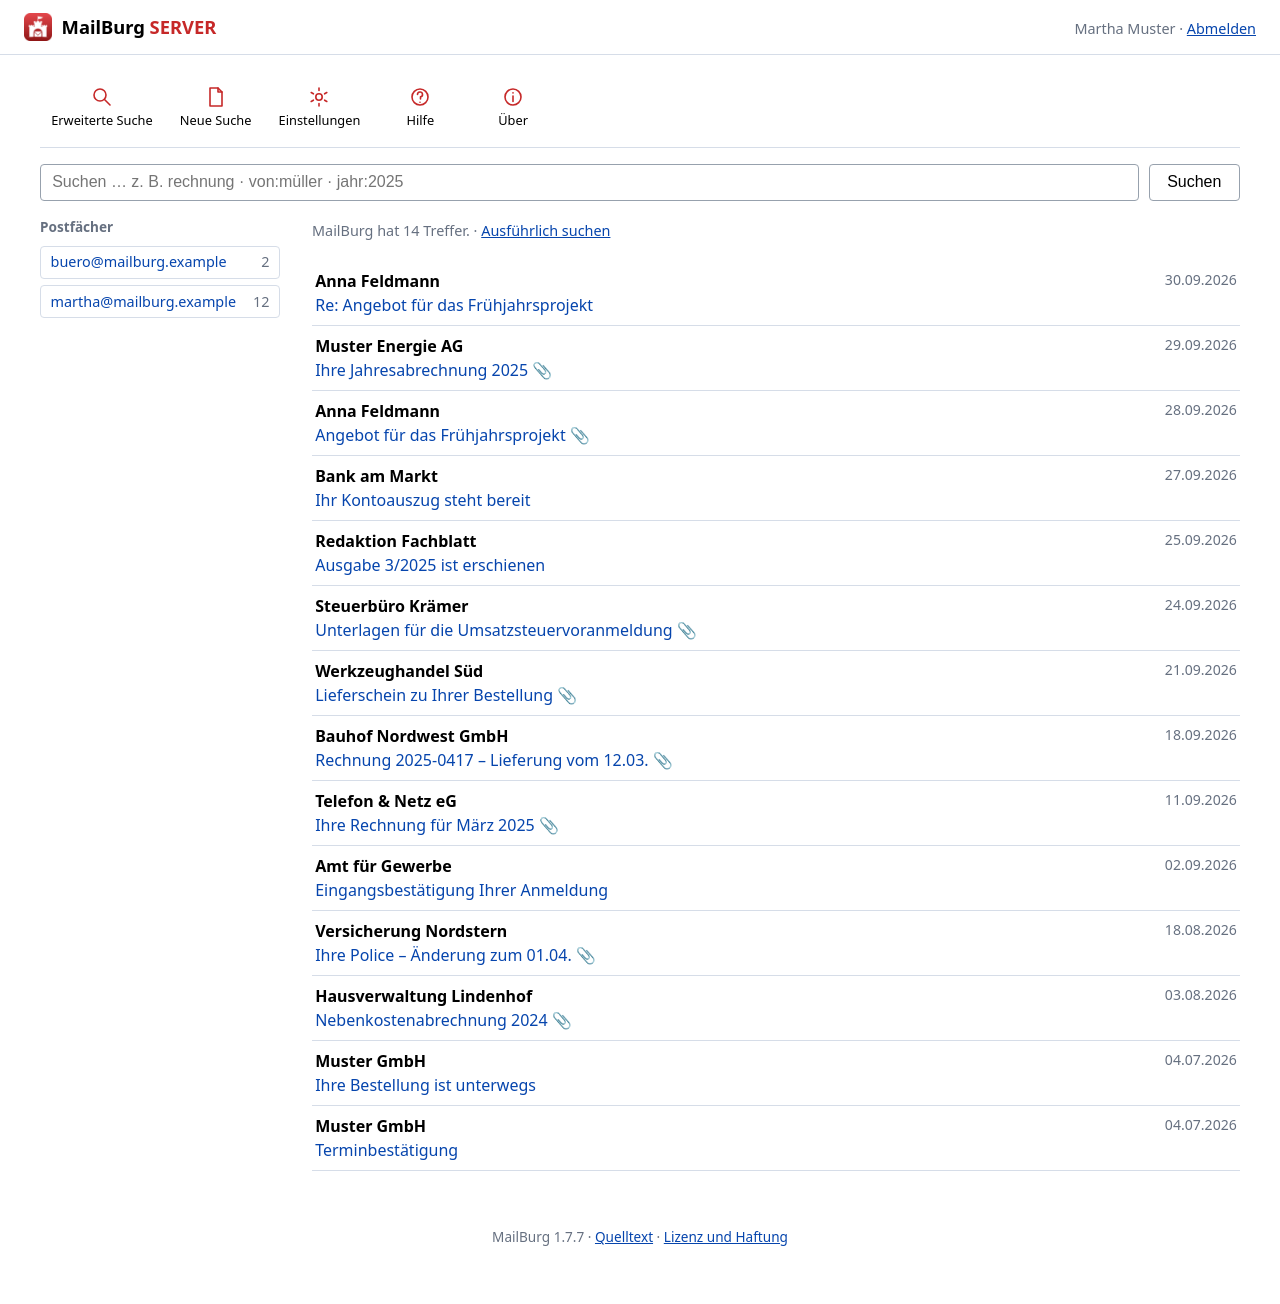
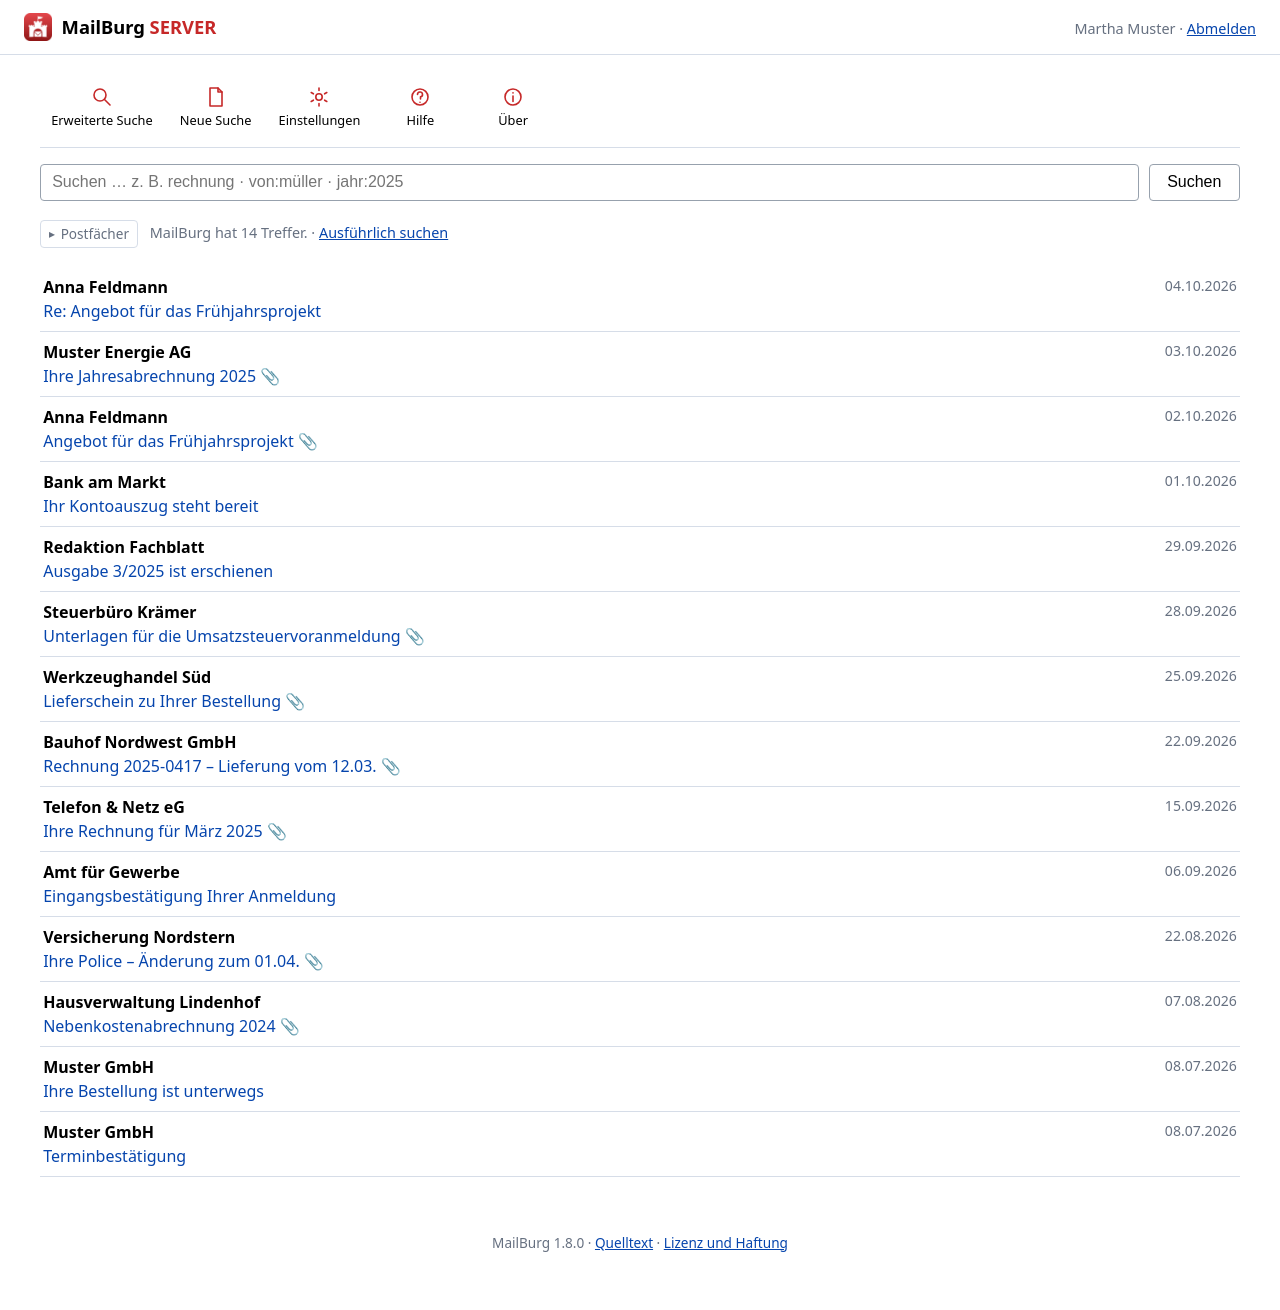
Die Browserbilder zeigten die alte Postfachspalte
Alle sieben neu erzeugt, dazu ein achtes: die aufgeschobene Spalte.
Zugeschoben ist seit der 1.8.0 die Vorgabe - auf dem Bild sieht man sie
dann gar nicht mehr, und niemand kaeme auf die Idee, dass es sie gibt.

Und damit stimmten die Bildbeschreibungen nicht mehr: Sie sprachen von
"links die Postfachspalte", die zu ist. Fuer Blinde ist eine
Beschreibung, die etwas anderes sagt als das Bild, schlimmer als keine.
In beiden Sprachen nachgezogen.

QtWebEngine war dafuer nachzuruesten (PySide6-Addons) - das Werkzeug
gab es laengst, ihm fehlte nur der Browser.

diff --git a/werkzeuge/screenshots_server.py b/werkzeuge/screenshots_server.py
@@ -338,6 +338,14 @@ def main() -> int:
             knipser.oeffnen("/?q=rechnung")
             knipser.ablegen("server-trefferliste")
 
+            # **Einmal mit offener Postfachspalte.** Zugeschoben ist
+            # seit der 1.8.0 die Vorgabe – damit sieht man auf dem Bild
+            # oben die Spalte gar nicht mehr, und niemand käme auf die
+            # Idee, dass es sie gibt.
+            knipser.oeffnen("/postfaecher?wahl=auf&weiter=%2F%3Fq%3Drechnung")
+            knipser.ablegen("server-postfaecher")
+            knipser.oeffnen("/postfaecher?wahl=zu&weiter=%2F%3Fq%3Drechnung")
+
             # Die erste Nachricht öffnen – welche das ist, steht nicht
             # fest, deshalb über den ersten Treffer gehen.
             ziel = knipser.ausfuehren(

diff --git a/docs/server-windows.md b/docs/server-windows.md
@@ -386,11 +386,18 @@ erfährt nicht einmal, wie das Archiv heißt.
 
 ![Die Anmeldeseite: Kopfzeile mit rotem Wappen und dem Schriftzug MailBurg SERVER, rechts der Umschalter System · Hell · Dunkel. In der Mitte zwei Felder für Anmeldename und Passwort mit einer Schaltfläche Anmelden.](bilder/server-anmelden.png)
 
-Nach der Anmeldung die Suche. Links stehen nur die Postfächer, die
-dieser Zugang sehen darf; die Zahl dahinter ist die der Nachrichten
-darin.
+Nach der Anmeldung die Suche. Die Treffer bekommen die volle Breite –
+gesucht wird ohnehin über alle Postfächer, die dieser Zugang sehen
+darf.
 
-![Die Trefferliste nach einer Suche nach »rechnung«: oben die Werkzeugleiste, darunter das Suchfeld mit der Trefferzahl, links die Postfachspalte und rechts drei Treffer, je zwei Zeilen mit Absender, Betreff, Datum und einer Büroklammer für den Anhang.](bilder/server-trefferliste.png)
+![Die Trefferliste nach einer Suche nach »rechnung«: oben die Werkzeugleiste, darunter das Suchfeld, dann der Knopf »Postfächer« neben der Trefferzahl und darunter drei Treffer über die volle Breite, je zwei Zeilen mit Absender, Betreff, Datum und einer Büroklammer für den Anhang.](bilder/server-trefferliste.png)
+
+Wer wissen will, **worin** er eigentlich sucht, drückt auf
+*Postfächer*. Die Spalte zeigt jedes Postfach mit seiner Mailzahl, und
+ein Klick darauf grenzt die Suche darauf ein. Sie bleibt offen, bis man
+sie wieder zuschiebt.
+
+![Dieselbe Trefferliste mit aufgeschobener Postfachspalte: links zwei Kästen mit je einer Mailadresse und der Zahl der Nachrichten darin, oben der Knopf »Postfächer« zum Zuschieben, rechts daneben unverändert die drei Treffer.](bilder/server-postfaecher.png)
 
 Unter **Einstellungen** stellt jeder für sich ein, wie es aussehen soll.
 Die Einstellung hängt am Browser, nicht am Zugang – wer sich von einem

diff --git a/README.md b/README.md
@@ -393,7 +393,7 @@ liegt das Archiv auf einem Rechner, der läuft, und alle anderen erreichen es
 über den Browser: anmelden, suchen, lesen, Anhänge herunterladen.
 
 <p align="center">
-  <img src="docs/bilder/server-uebersicht.png" alt="Die Weboberfläche nach der Anmeldung: oben eine Werkzeugleiste mit Erweiterte Suche, Neue Suche, Einstellungen, Hilfe und Über. Darunter das Suchfeld, links eine Spalte mit den beiden Postfächern, die dieser Zugang sehen darf, und rechts die Trefferliste – je Nachricht zwei Zeilen mit Absender, Betreff, Datum und einer Büroklammer bei Anhängen." width="900">
+  <img src="docs/bilder/server-uebersicht.png" alt="Die Weboberfläche nach der Anmeldung: oben eine Werkzeugleiste mit Erweiterte Suche, Neue Suche, Einstellungen, Hilfe und Über. Darunter das Suchfeld, dann eine Zeile mit dem Knopf »Postfächer« und der Trefferzahl, und darunter die Treffer über die volle Breite – je Nachricht zwei Zeilen mit Absender, Betreff, Datum und einer Büroklammer bei Anhängen. Der Knopf schiebt eine Spalte auf, in der steht, welche Postfächer dieser Zugang durchsuchen darf." width="900">
 </p>
 
 Eine Nachricht geöffnet – mit Anhang, »Im Mailprogramm öffnen« und

diff --git a/README.en.md b/README.en.md
@@ -360,7 +360,7 @@ and everyone else reaches it through a browser: sign in, search, read, download
 attachments.
 
 <p align="center">
-  <img src="docs/bilder/server-uebersicht.png" alt="The web interface after signing in: a toolbar across the top with advanced search, new search, settings, help and about. Below it the search box, on the left a column listing the two mailboxes this account may see, and on the right the results – two lines per message with sender, subject, date and a paperclip where there are attachments." width="900">
+  <img src="docs/bilder/server-uebersicht.png" alt="The web interface after signing in: a toolbar across the top with advanced search, new search, settings, help and about. Below it the search box, then a row with the »Postfächer« button and the number of hits, and under that the results across the full width – two lines per message with sender, subject, date and a paperclip where there are attachments. The button slides open a column listing which mailboxes this account may search." width="900">
 </p>
 
 A message opened – with its attachment, »open in mail client« and
